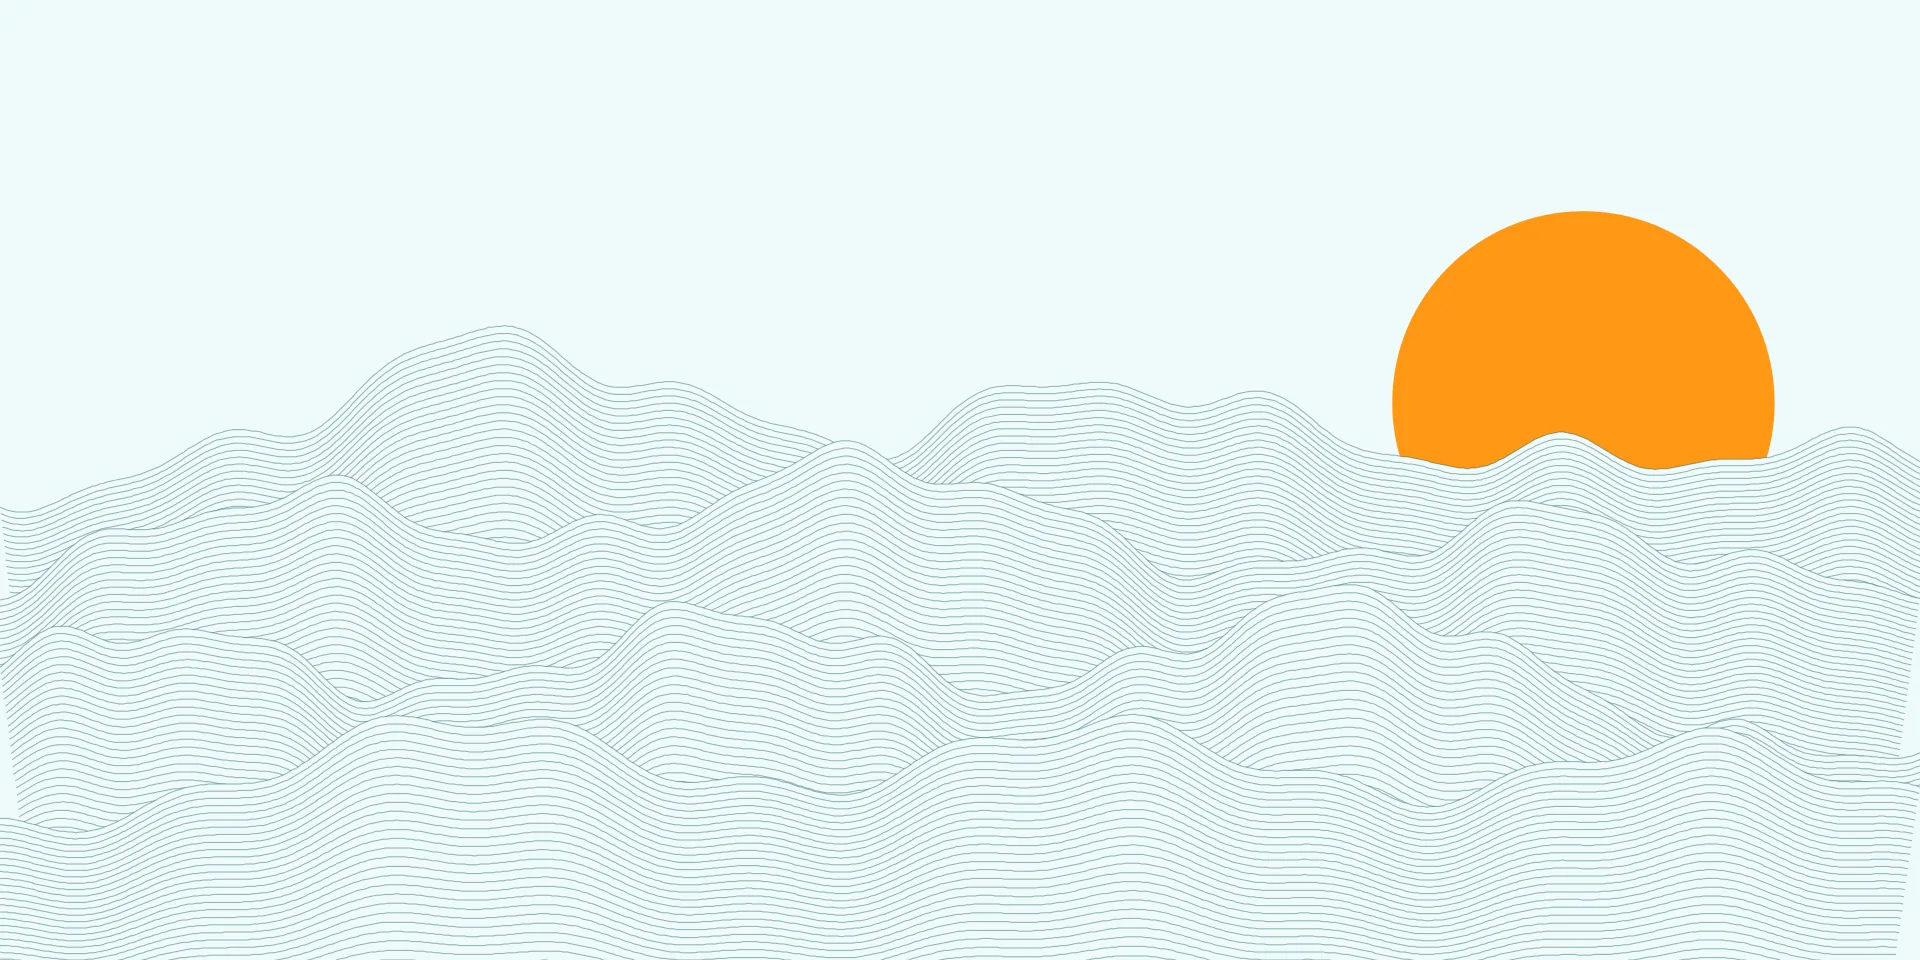
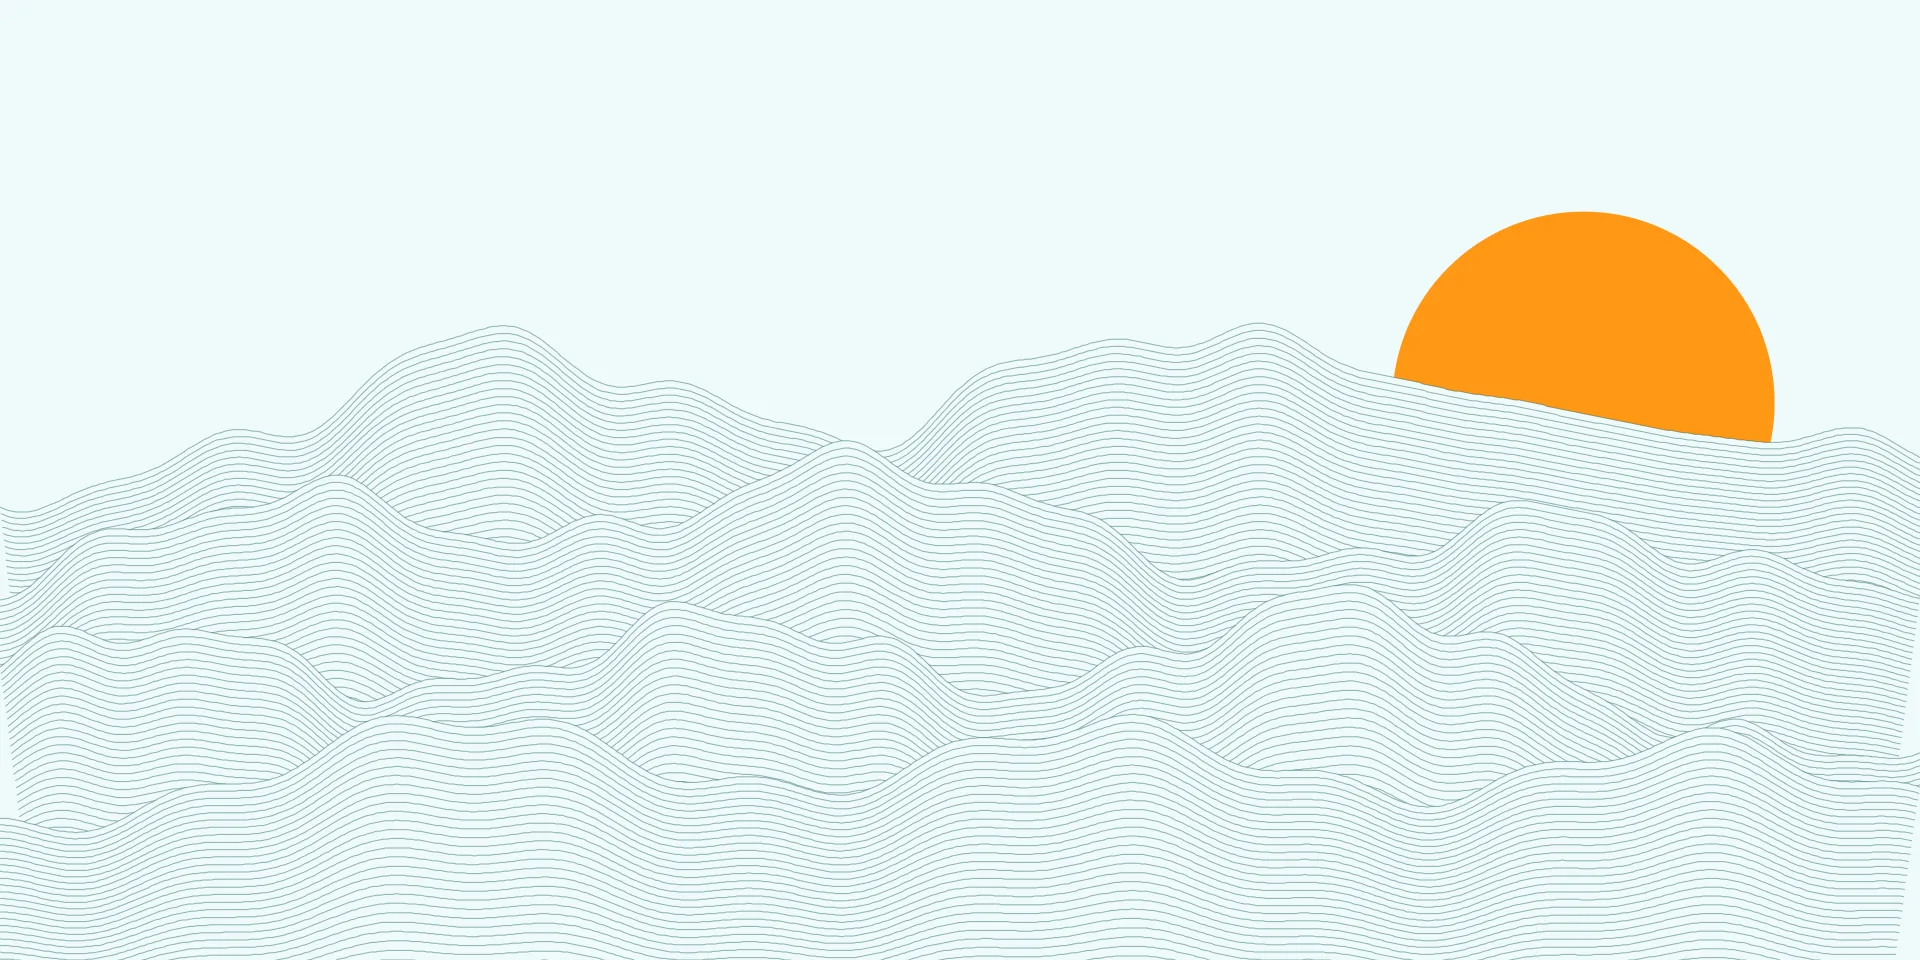
Clean hero, lowercase value, move stats out, remove certified from SEO meta
- Replace hero WebP variants with re-exports from the fixed sunrise SVG (notch gone). Variants regenerated from the same source so 1024 and 2880 match 1920.
- Hero headline: Accelerate time to value. (lowercase)
- Move .aa-stats-bar out of its overlay on the hero into a standalone section on Sky Teal (#F0FAFA), comfortable padding, still flex-wrap 2x2 on mobile via the existing media query. Hero min-height back to 560.
- Replace "Certified ..." in home meta description, og:description, twitter:description, JsonLd organization description, and prerender static-page entry with the new framework-based copy. Same word swap on Events and About meta tags. About: certified Scrum trainer becomes accredited Scrum trainer.

Changed region(s): [[0.4688, 0.3438, 1.0, 0.625], [0.3125, 0.4062, 0.4375, 0.5312]]

diff --git a/src/pages/Home.css b/src/pages/Home.css
@@ -22,7 +22,7 @@
 /* ─── Hero ────────────────────────────────────────────────────────────────── */
 .aa-hero {
   position: relative;
-  min-height: 760px;
+  min-height: 560px;
   overflow: visible;
   border: none;
   box-shadow: none;
@@ -128,11 +128,8 @@
   display: flex;
   align-items: stretch;
   justify-content: center;
-  background: transparent;
-  padding: 20px 48px 80px;
-  margin-top: -240px;
-  position: relative;
-  z-index: 3;
+  background: #F0FAFA;
+  padding: 64px 48px;
 }
 
 .aa-stat {

diff --git a/src/pages/Home.tsx b/src/pages/Home.tsx
@@ -117,9 +117,10 @@ const Home: React.FC = () => {
     <div className="aa-page">
       <Helmet>
         <title>Altogether Agile — Agile Coaching & Training</title>
-        <meta name="description" content="Certified agile courses, practical coaching, and 80+ techniques for teams who want real results. 25 years of hands-on experience." />
+        <meta name="description" content="Framework-based agile training and coaching, with 80+ techniques and 25 years of hands-on experience for teams who want real results." />
         <meta property="og:title" content="Altogether Agile — Agile Coaching & Training" />
-        <meta property="og:description" content="Certified agile courses, practical coaching, and 80+ techniques for teams who want real results." />
+        <meta property="og:description" content="Framework-based agile training and coaching, with 80+ techniques and 25 years of hands-on experience for teams who want real results." />
+        <meta name="twitter:description" content="Framework-based agile training and coaching, with 80+ techniques and 25 years of hands-on experience for teams who want real results." />
         <meta property="og:image" content={`${SITE_URL}/og-image.png`} />
         <meta property="og:type" content="website" />
         <link rel="canonical" href={`${SITE_URL}/`} />
@@ -147,7 +148,7 @@ const Home: React.FC = () => {
           <div className="aa-hero-grid">
             <div>
               <h1 className="aa-hero-h1">
-                Work better together.<br />Accelerate time to Value.
+                Work better together.<br />Accelerate time to value.
               </h1>
               <p className="aa-hero-subtitle">
                 Practical agile training and coaching, grounded in 25 years of real experience. Still delivered personally, every time.

diff --git a/src/pages/About.tsx b/src/pages/About.tsx
@@ -128,9 +128,9 @@ const About: React.FC = () => {
     <div style={{ fontFamily: "'Segoe UI', system-ui, sans-serif", background: p.white }}>
       <Helmet>
         <title>About Alun — Altogether Agile</title>
-        <meta name="description" content="Meet Alun, founder of Altogether Agile. 25 years of agile experience, ICF-accredited coach, and certified Scrum trainer." />
+        <meta name="description" content="Meet Alun, founder of Altogether Agile. 25 years of agile experience, ICF-accredited coach, and accredited Scrum trainer." />
         <meta property="og:title" content="About Alun — Altogether Agile" />
-        <meta property="og:description" content="Meet Alun, founder of Altogether Agile. 25 years of agile experience, ICF-accredited coach, and certified Scrum trainer." />
+        <meta property="og:description" content="Meet Alun, founder of Altogether Agile. 25 years of agile experience, ICF-accredited coach, and accredited Scrum trainer." />
         <meta property="og:image" content={`${SITE_URL}/og-image.png`} />
         <link rel="canonical" href={`${SITE_URL}/about`} />
       </Helmet>

diff --git a/src/pages/Events.tsx b/src/pages/Events.tsx
@@ -353,9 +353,9 @@ const Events: React.FC = () => {
     <div style={{ fontFamily: "'Segoe UI', system-ui, sans-serif", background: p.white }}>
       <Helmet>
         <title>Agile Training Courses & Workshops UK — Altogether Agile</title>
-        <meta name="description" content="Certified agile training courses in the UK — AgilePM, Scrum Master, Product Owner, and more. Small-group workshops delivered personally by an experienced coach." />
+        <meta name="description" content="Framework-based agile training courses in the UK covering AgilePM, Scrum Master, Product Owner, and more. Small-group workshops delivered personally by an experienced coach." />
         <meta property="og:title" content="Agile Training Courses & Workshops UK — Altogether Agile" />
-        <meta property="og:description" content="Certified agile training courses in the UK — AgilePM, Scrum Master, Product Owner, and more. Small-group workshops delivered personally." />
+        <meta property="og:description" content="Framework-based agile training courses in the UK covering AgilePM, Scrum Master, Product Owner, and more. Small-group workshops delivered personally." />
         <meta property="og:image" content={`${SITE_URL}/og-image.png`} />
         <meta property="og:url" content={`${SITE_URL}/events`} />
         <meta property="og:type" content="website" />

diff --git a/index.html b/index.html
@@ -51,7 +51,7 @@
             <img src="/images/hero-bg-1920.webp" srcset="/images/hero-bg-1024.webp 1024w, /images/hero-bg-1920.webp 1920w, /images/hero-bg-2880.webp 2880w" sizes="100vw" alt="" fetchpriority="high" width="2400" height="1200" style="width:100%;height:100%;object-fit:cover;object-position:80% 30%">
           </div>
           <div class="sh-hero-pad" style="position:relative;z-index:2">
-            <h1 class="sh-hero-h1">Work better together.<br>Accelerate time to Value.</h1>
+            <h1 class="sh-hero-h1">Work better together.<br>Accelerate time to value.</h1>
             <p style="color:#374151;font-size:16px;line-height:1.7;margin:0 0 32px;max-width:480px">Practical agile training and coaching, grounded in 25 years of real experience. Still delivered personally, every time.</p>
           </div>
         </div>

diff --git a/src/components/seo/JsonLd.tsx b/src/components/seo/JsonLd.tsx
@@ -18,7 +18,7 @@ export const OrganizationSchema = () => (
     name: 'Altogether Agile',
     url: SITE_URL,
     logo: `${SITE_URL}/og-image.png`,
-    description: 'Certified agile courses, practical coaching, and 80+ techniques for teams who want real results.',
+    description: 'Framework-based agile training and coaching, with 80+ techniques and 25 years of hands-on experience for teams who want real results.',
     founder: {
       '@type': 'Person',
       name: 'Alun Davies-Baker',